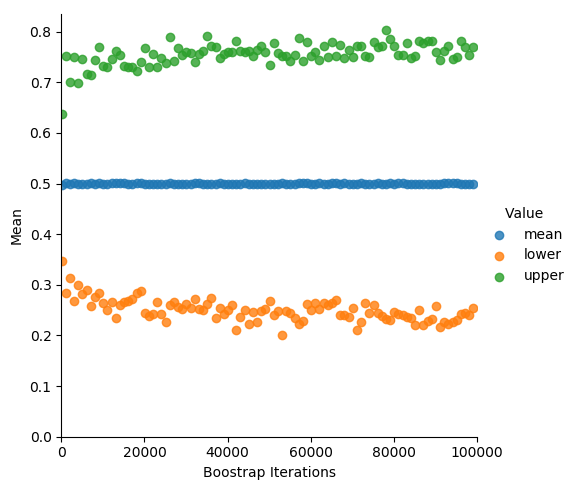
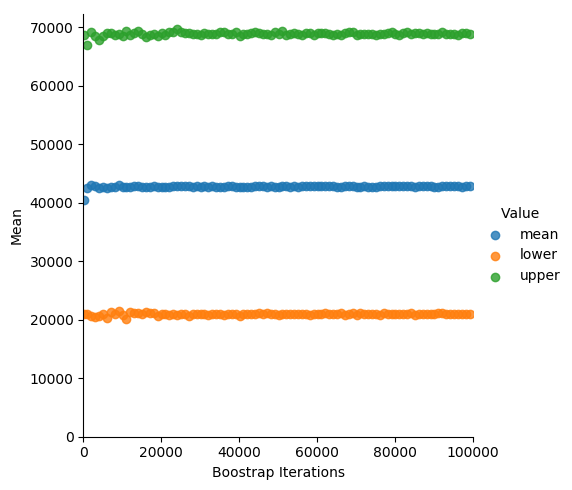
power and bootstrap corrections

diff --git a/lab2/bootstrap.py b/lab2/bootstrap.py
@@ -3,20 +3,16 @@ matplotlib.use('Agg')
 import pandas as pd
 import seaborn as sns
 import numpy as np
-
-
+from sklearn.utils import resample
 def boostrap(sample, sample_size, iterations):
-	new_samples = np.random.rand( iterations, sample_size)
-	data_mean = np.mean(new_samples)
-	iter_values = []
-	lower = 1000000
-	upper = 0
+	new_samples = []
 	for i in range(0,iterations):
-		m = np.mean(new_samples[i,])
-		if m > upper:
-			upper = m
-		if m < lower:
-			lower = m
+		d = np.random.choice(sample, size=sample_size)
+		new_samples.append(np.mean(d))
+	data_mean = np.mean(new_samples)
+	lower = np.percentile(new_samples,2.5)
+	upper = np.percentile(new_samples,97.5)
+
 	return data_mean, lower, upper
 
 

diff --git a/lab2/power.py b/lab2/power.py
@@ -1,0 +1,18 @@
+import matplotlib
+matplotlib.use('Agg')
+import pandas as pd
+import seaborn as sns
+import numpy as np
+from sklearn.utils import resample
+
+def power(sample1, sample2, reps, size, alpha):
+    count = 0
+    for i in range(0,reps):
+        mean1 = 0
+        mean2 = 0
+        sample1new = np.random.choice(a=sample1)
+        sample2new = np.random.choice(a=sample2)
+        if np.mean(sample2) > np.mean(sample1):
+            count = count + 1
+    percentage = count / reps
+    return percentage
